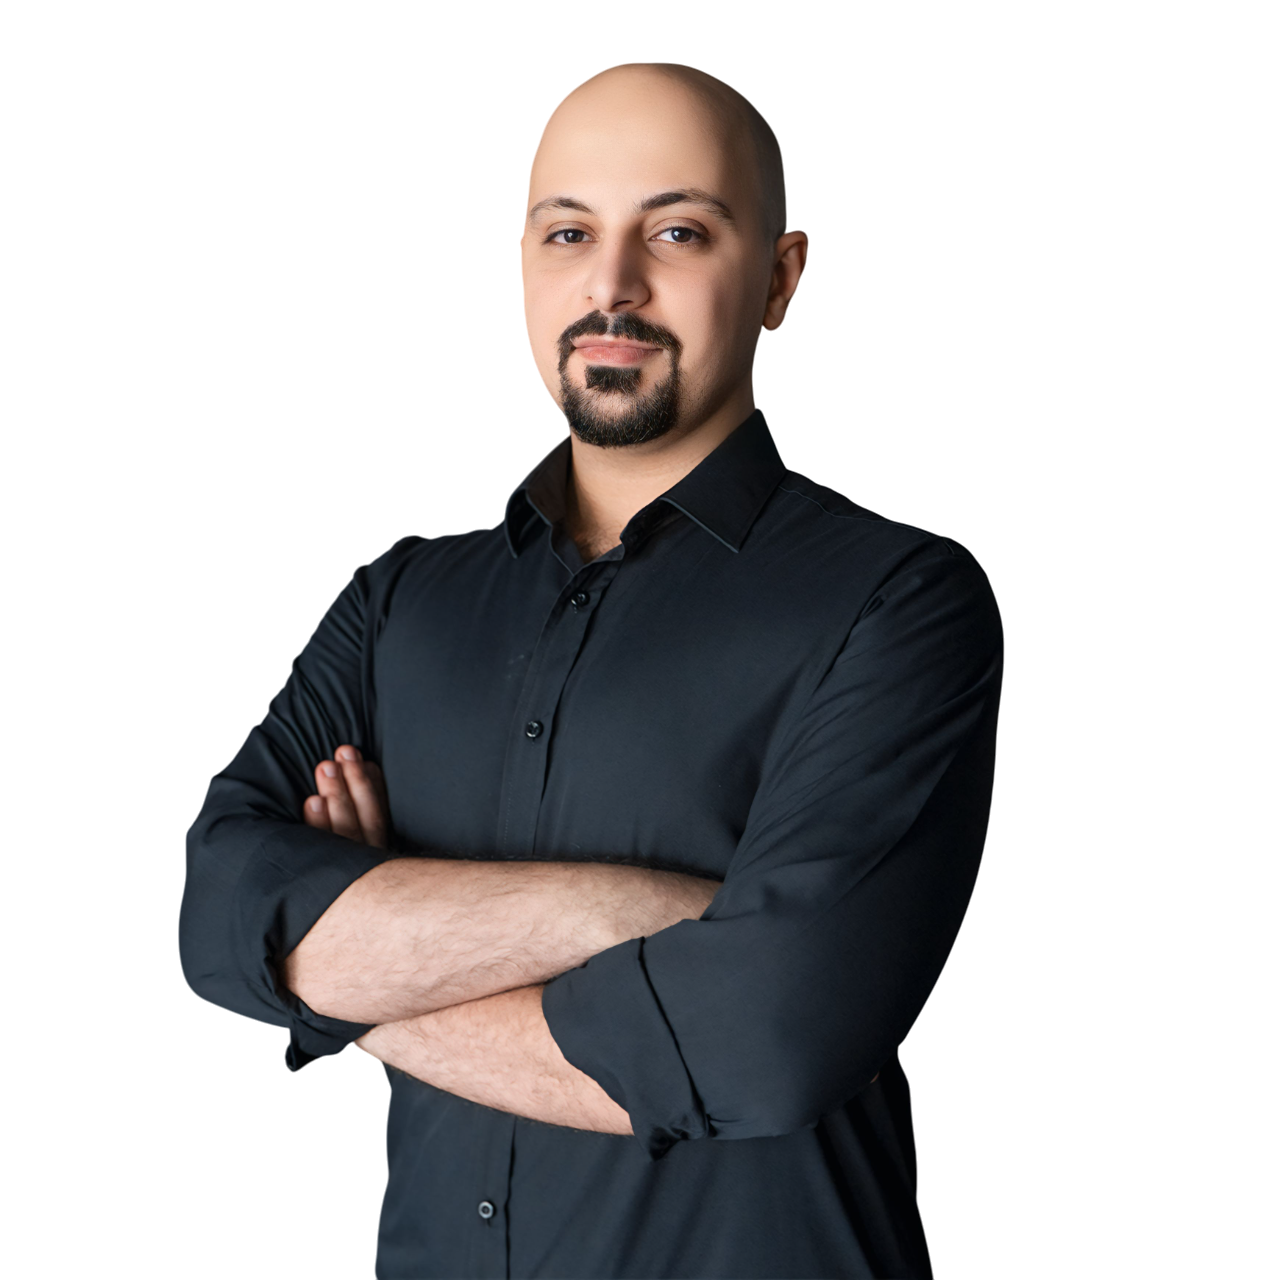
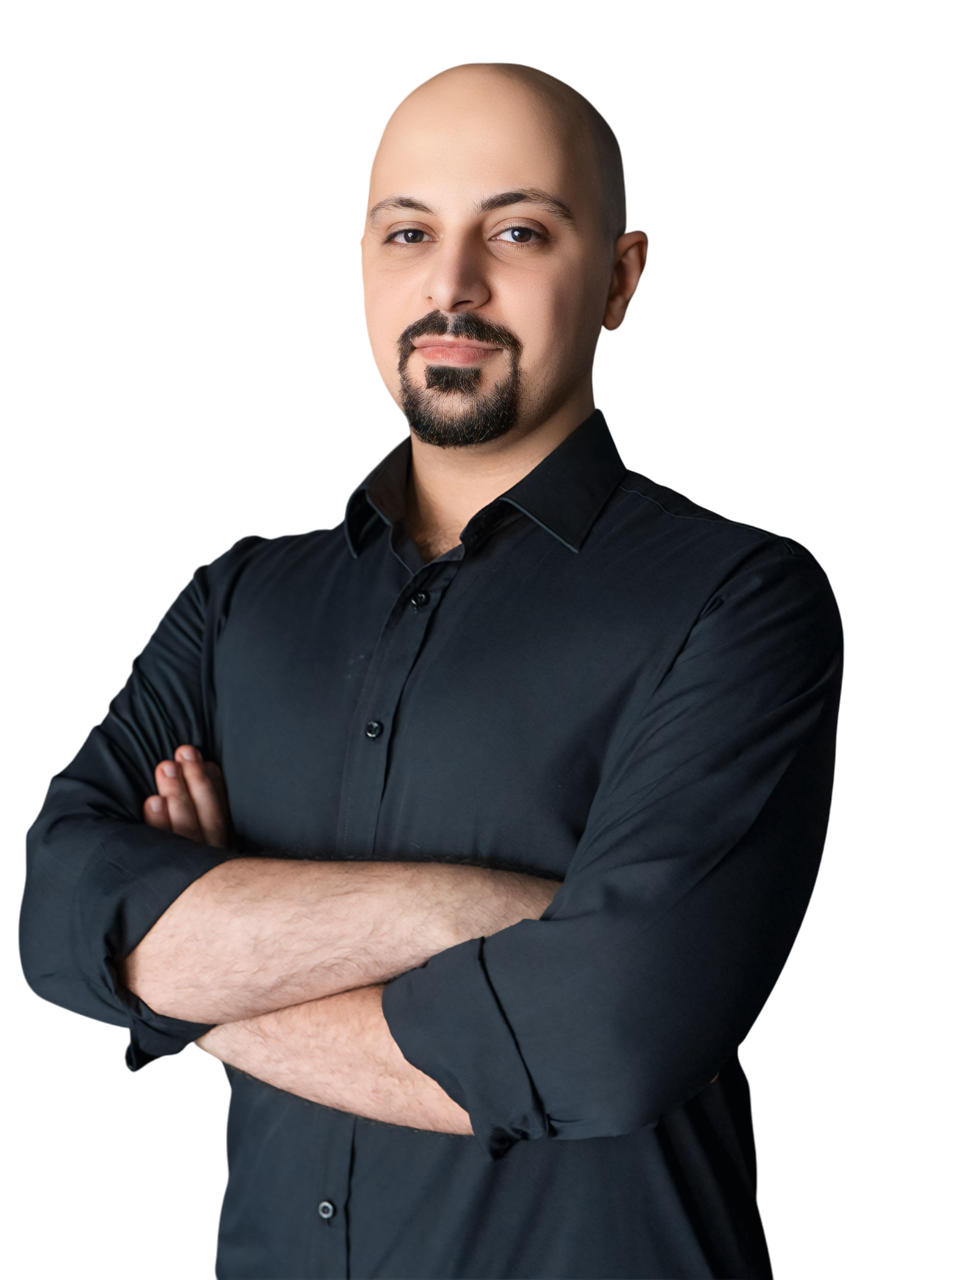
Refactored Hero component for improved text gradient colors and layout adjustments

diff --git a/src/components/Hero.tsx b/src/components/Hero.tsx
@@ -14,31 +14,30 @@ export default function Hero() {
         <Image
           src={heroBackgroundImage}
           alt="Hero Background"
-          layout="fill"
+          fill
           objectFit="cover"
           priority
         />
       </div>
 
-      <div className="w-full md:w-1/2 z-20 flex flex-col justify-center min-h-[40vh] p-4 pt-20 md:p-8 md:pl-40 text-center md:text-left">
-        <p className="text-xl md:text-2xl font-bold mb-4 md:mb-8 bg-gradient-to-r from-gray-700 via-gray-400 to-gray-200 md:bg-none text-transparent md:text-black bg-clip-text md:bg-clip-border">
+      <div className="w-full md:w-1/2 z-20 flex flex-col justify-center min-h-[40vh] p-4 pt-20 md:p-40 text-center md:text-left">
+        <p className="text-xl md:text-2xl font-bold mb-4 md:mb-8 bg-gradient-to-r from-gray-800 via-gray-300 to-gray-200 md:bg-none text-transparent md:text-gray-800 bg-clip-text md:bg-clip-border">
           Hi, I am
         </p>
-        <h1 className="text-3xl md:text-4xl font-bold mb-2 bg-gradient-to-r from-gray-700 via-gray-400 to-gray-200 md:bg-none text-transparent md:text-black bg-clip-text md:bg-clip-border">
+        <h1 className="text-3xl md:text-4xl font-bold mb-2 bg-gradient-to-r from-gray-800 via-gray-400 to-gray-200 md:bg-none text-transparent md:text-gray-800 bg-clip-text md:bg-clip-border">
           Mohamad Sharafeddine
         </h1>
-        <p className="text-base md:text-lg font-bold bg-gradient-to-r from-gray-700 via-gray-400 to-gray-200 md:bg-none text-transparent md:text-gray-500 bg-clip-text md:bg-clip-border">
+        <p className="text-base md:text-lg font-bold bg-gradient-to-r from-gray-800 via-gray-400 to-gray-200 md:bg-none text-transparent md:text-gray-500 bg-clip-text md:bg-clip-border">
           Full-Stack Web & Mobile Developer
         </p>
       </div>
 
-      <div className="relative z-20 min-w-[400px] min-h-[400px] max-w-[800px] max-h-[800px] md:min-w-[600px] md:min-h-[600px] md:max-w-[800px] md:max-h-[800px] mx-auto md:mr-20 self-end">
+      <div className="relative z-20 min-w-[400px] min-h-[533px] max-w-[600px] max-h-[800px] md:min-w-[450px] md:min-h-[600px] md:max-w-[600px] md:max-h-[800px] mx-auto self-end">
         <Image
           src={personalImage}
           alt="Personal Image"
           fill
           quality={100}
-          sizes="(max-width: 768px) 800px, 800px"
           className="object-contain mix-blend-multiply"
           priority
         />
